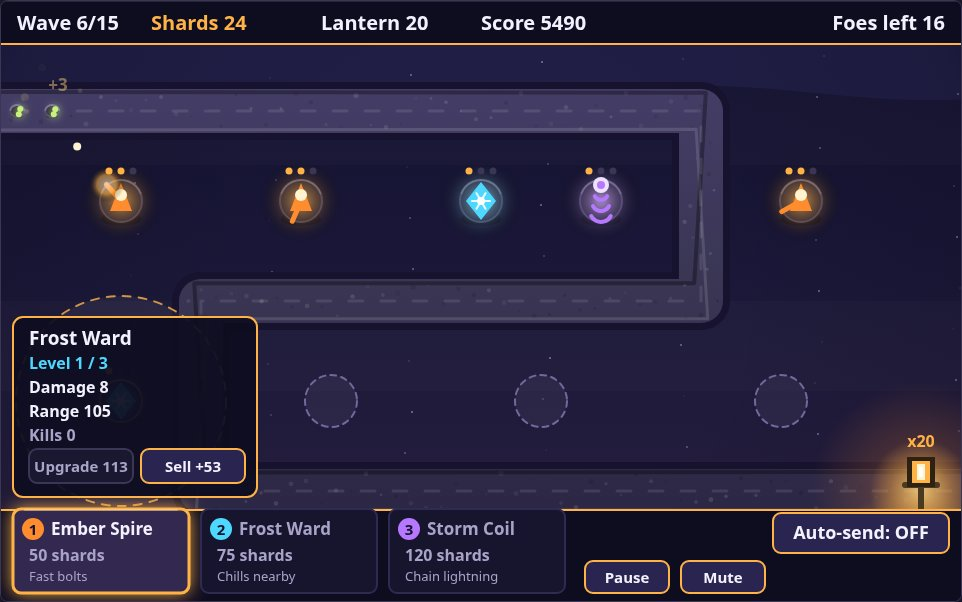
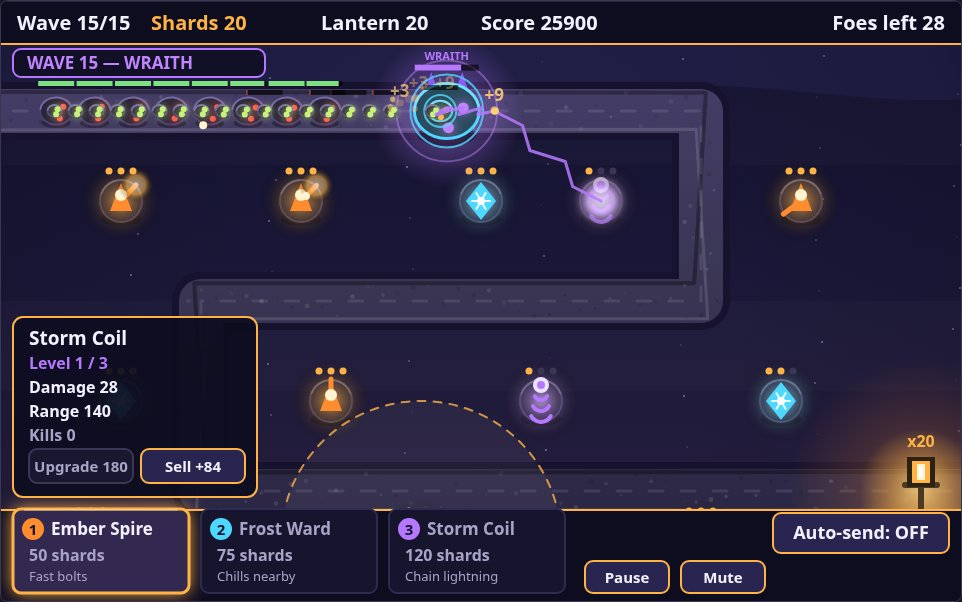
Staging: wave-15 boss fight play shot + grander wraith render
stagePlay now lands mid-boss-fight on wave 15 (step 24658, seed 1):
28 enemies alive, wraith at (446,110) with 72% HP, 5 projectiles,
21 particles, 4 floaters, 12 towers. Wave 5 peaks at 3 alive and
wave 10 at 17, so wave 15 is the busiest boss frame in the game.
Fallbacks: busy wave-10+ frame, then any mid-wave frame.

render.js (visual only, no stat/behavior change): wraith drawn 1.35x
with horns, wider/stronger aura + ring, bigger glowing eyes, wider
labelled HP bar; boss banner pill (WAVE n — WRAITH) while a wraith
is alive mid-wave. Screenshots re-rendered.

diff --git a/game/src/render.js b/game/src/render.js
@@ -615,29 +615,53 @@ export function createRenderer(canvas) {
 
   function drawEnemy(e, state) {
     const r = e.radius || 14;
+    // The wraith is drawn bigger than its collision radius: a purely
+    // visual scale, so its size on screen never changes its hitbox,
+    // speed or HP. Everything below that uses `vr` is presentation.
+    const isBoss = e.kind === 'wraith';
+    const vr = isBoss ? r * 1.35 : r;
     const chilled = e.slowUntil && state.time !== undefined && e.slowUntil > state.time;
     const eye = EYE_COLOR[e.kind] || '#ffffff';
-    // Boss aura.
-    if (e.kind === 'wraith') {
-      const aura = ctx.createRadialGradient(e.x, e.y, 4, e.x, e.y, r + 26);
-      aura.addColorStop(0, 'rgba(182, 120, 255, 0.4)');
+    // Boss aura: wider and stronger than a normal enemy's, plus a thin
+    // violet ring so the wraith reads as the centre of the fight even
+    // at thumbnail size.
+    if (isBoss) {
+      const aura = ctx.createRadialGradient(e.x, e.y, 4, e.x, e.y, vr + 44);
+      aura.addColorStop(0, 'rgba(182, 120, 255, 0.5)');
       aura.addColorStop(1, 'rgba(182, 120, 255, 0)');
       ctx.fillStyle = aura;
-      ctx.fillRect(e.x - r - 26, e.y - r - 26, (r + 26) * 2, (r + 26) * 2);
+      ctx.fillRect(e.x - vr - 44, e.y - vr - 44, (vr + 44) * 2, (vr + 44) * 2);
+      ctx.beginPath();
+      ctx.arc(e.x, e.y, vr + 18, 0, Math.PI * 2);
+      ctx.lineWidth = 2;
+      ctx.strokeStyle = 'rgba(192, 132, 252, 0.45)';
+      ctx.stroke();
     }
     // Ground shadow so the shadow creature still casts one.
-    dropShadow(e.x, e.y + r * 0.75, r * 0.9, r * 0.32);
+    dropShadow(e.x, e.y + vr * 0.75, vr * 0.9, vr * 0.32);
+    // Boss horns, drawn before the body so their bases tuck behind it.
+    if (isBoss) {
+      ctx.fillStyle = '#8b5cf6';
+      for (let s = -1; s <= 1; s += 2) {
+        ctx.beginPath();
+        ctx.moveTo(e.x + s * vr * 0.72, e.y - vr * 0.45);
+        ctx.lineTo(e.x + s * vr * 0.48, e.y - vr * 1.2);
+        ctx.lineTo(e.x + s * vr * 0.22, e.y - vr * 0.5);
+        ctx.closePath();
+        ctx.fill();
+      }
+    }
     ctx.beginPath();
-    ctx.ellipse(e.x, e.y, r, r * 0.85, 0, 0, Math.PI * 2);
-    ctx.fillStyle = chilled ? '#2a4a5e' : '#2a2438';
+    ctx.ellipse(e.x, e.y, vr, vr * 0.85, 0, 0, Math.PI * 2);
+    ctx.fillStyle = chilled ? '#2a4a5e' : (isBoss ? '#241a3d' : '#2a2438');
     ctx.fill();
-    ctx.lineWidth = 2;
-    ctx.strokeStyle = chilled ? FROST : '#4a3f6e';
+    ctx.lineWidth = isBoss ? 3 : 2;
+    ctx.strokeStyle = chilled ? FROST : (isBoss ? '#8b5cf6' : '#4a3f6e');
     ctx.stroke();
     // Bright rim along the top edge: the body catches the sky light, so
     // the silhouette separates from the dark path underneath.
     ctx.beginPath();
-    ctx.ellipse(e.x, e.y, r, r * 0.85, 0, Math.PI * 1.05, Math.PI * 1.95);
+    ctx.ellipse(e.x, e.y, vr, vr * 0.85, 0, Math.PI * 1.05, Math.PI * 1.95);
     ctx.lineWidth = 2;
     ctx.strokeStyle = chilled ? 'rgba(159, 232, 255, 0.55)' : 'rgba(190, 175, 255, 0.38)';
     ctx.stroke();
@@ -656,35 +680,38 @@ export function createRenderer(canvas) {
     const px = -fy;
     const py = fx;
     // Glowing eyes: a small shadowBlur so they bloom against the dark body.
+    // The boss's eyes are bigger and sit further out on its larger body.
     ctx.save();
     ctx.shadowColor = eye;
-    ctx.shadowBlur = 8;
+    ctx.shadowBlur = isBoss ? 12 : 8;
     for (let s = -1; s <= 1; s += 2) {
-      const ex = e.x + fx * r * 0.35 + px * s * r * 0.38;
-      const ey = e.y + fy * r * 0.35 + py * s * r * 0.38;
+      const ex = e.x + fx * vr * 0.35 + px * s * vr * 0.38;
+      const ey = e.y + fy * vr * 0.35 + py * s * vr * 0.38;
       ctx.beginPath();
-      ctx.arc(ex, ey, e.kind === 'wraith' ? 4.5 : 3, 0, Math.PI * 2);
+      ctx.arc(ex, ey, isBoss ? 5.5 : 3, 0, Math.PI * 2);
       ctx.fillStyle = eye;
       ctx.fill();
     }
     ctx.restore();
     if (chilled) {
       ctx.beginPath();
-      ctx.arc(e.x, e.y, r + 4, 0, Math.PI * 2);
+      ctx.arc(e.x, e.y, vr + 4, 0, Math.PI * 2);
       ctx.lineWidth = 2;
       ctx.strokeStyle = 'rgba(79, 216, 255, 0.8)';
       ctx.stroke();
     }
-    // HP bar for the tough ones, and for anything already hurt.
+    // HP bar for the tough ones, and for anything already hurt. The boss
+    // bar is wider and labelled, so it reads at thumbnail size.
     if (e.kind === 'brute' || e.kind === 'wraith' || (e.maxHp && e.hp < e.maxHp)) {
-      const bw = e.kind === 'wraith' ? 52 : 36;
+      const bw = isBoss ? 64 : 36;
       const bx = e.x - bw / 2;
-      const by = e.y - r - 12;
+      const by = e.y - vr - 14;
+      if (isBoss) text('WRAITH', e.x, by - 5, 11, STORM, 'center');
       ctx.fillStyle = 'rgba(0, 0, 0, 0.6)';
-      ctx.fillRect(bx, by, bw, 5);
+      ctx.fillRect(bx, by, bw, isBoss ? 6 : 5);
       const frac = Math.max(0, Math.min(1, e.hp / (e.maxHp || 1)));
-      ctx.fillStyle = e.kind === 'wraith' ? STORM : (frac > 0.5 ? '#7ee081' : '#ff5a4e');
-      ctx.fillRect(bx, by, bw * frac, 5);
+      ctx.fillStyle = isBoss ? STORM : (frac > 0.5 ? '#7ee081' : '#ff5a4e');
+      ctx.fillRect(bx, by, bw * frac, isBoss ? 6 : 5);
     }
   }
 
@@ -890,6 +917,33 @@ export function createRenderer(canvas) {
     }
   }
 
+  // Boss banner: while a wraith is alive mid-wave, a small pill at the
+  // top-left of the field names the fight ("WAVE 15 — WRAITH"). Purely
+  // derived from state (wave number + a wraith in the enemy list), so it
+  // is deterministic; it sits above the path (y 48–76) where no enemy
+  // body ever reaches, and only during fighting, never in the build
+  // phase. In a thumbnail it is the one line that says "boss fight".
+  function drawBossBanner(state) {
+    if (state.waveState !== 'fighting' && state.waveState !== 'spawning') return;
+    const enemies = state.enemies || [];
+    let bossAlive = false;
+    for (let i = 0; i < enemies.length; i += 1) {
+      if (enemies[i].kind === 'wraith') { bossAlive = true; break; }
+    }
+    if (!bossAlive) return;
+    const px = 12;
+    const py = 48;
+    const pw = 252;
+    const ph = 28;
+    roundRectPath(px, py, pw, ph, 8);
+    ctx.fillStyle = 'rgba(14, 13, 32, 0.78)';
+    ctx.fill();
+    ctx.lineWidth = 2;
+    ctx.strokeStyle = STORM;
+    ctx.stroke();
+    text('WAVE ' + (state.wave || 0) + ' — WRAITH', px + 14, py + 20, 17, '#c084fc', 'left');
+  }
+
   function drawPlayField(state, ui) {
     drawField(state);
     drawPath();
@@ -956,6 +1010,7 @@ export function createRenderer(canvas) {
     drawHud(s);
     drawBottomBar(s, u);
     if (screen === SCREEN_PLAY) {
+      drawBossBanner(s);
       drawSelectionPanel(s, u, screen);
       // Bottom-bar control buttons (send wave, auto-send, pause, mute).
       // Only on the play screen: the paused overlay has its own buttons and

diff --git a/game/src/shots.js b/game/src/shots.js
@@ -24,7 +24,11 @@ const PLOT_TYPES = [
 /** Hard cap on steps for the full-game victory attempt. */
 const VICTORY_STEP_CAP = 150000;
 /** Steps after which stagePlay accepts a merely-acceptable frame. */
-const PLAY_FALLBACK_STEPS = 60 * 150;
+const PLAY_FALLBACK_STEPS = 60 * 500;
+/** Cap for the boss-fight play scene: the wave-15 frame lands ~step 24658. */
+const PLAY_STEP_CAP = 60 * 450;
+/** Steps after which stagePlay accepts any mid-wave frame at all. */
+const PLAY_LAST_RESORT_STEPS = 60 * 540;
 /** Steps of play the title scene stages first (~6 seconds of wave 1). */
 const START_STEPS = 360;
 /** Generous cap for the mid-game scenes, in steps. */
@@ -131,46 +135,64 @@ function stageStart(world, ui) {
 
 function stagePlay(world, ui) {
   beginRun(world);
-  // A lively frame: a real mid-game army (wave 3+), at least four towers
-  // standing, a crowd on the path, and something in the air — a bolt, a
-  // chain link or a kill burst — so the shot reads as a battle, not a
-  // posed field. Measured with seed 1: the fourth tower only lands after
-  // wave 4 clears (the autopilot spends a mid-wave-3 upgrade first) and
-  // the wave-5 boss wave never holds 4 alive, so this lands mid-wave 6.
-  const lively = (state) => {
-    const towers = state.towers || [];
-    const enemies = state.enemies || [];
-    const midWave = state.waveState === 'fighting' || state.waveState === 'spawning';
-    if (!midWave || (state.wave || 0) < 3) return false;
-    if (towers.length < 4 || enemies.length < 4) return false;
-    const projectiles = state.projectiles || [];
-    const particles = state.particles || [];
-    return projectiles.length > 0 || particles.length > 0;
+  // A boss-fight frame, not a quiet mid-wave one: the wave-15 wraith
+  // with its escort swarm. Measured with seed 1 (Node probe, same
+  // steering as here): wave 5 never holds more than 3 enemies alive, wave
+  // 10 peaks at ~17 enemies, but wave 15 — wraith + 8 brutes + 10 shades
+  // + 20 swarmlings, all slowed into a jam by the frost wards — peaks at
+  // 27-32 alive at once. The predicate below first lands at step 24658
+  // (wave time 18.7 s): 28 enemies on the top leg, boss at (446, 110)
+  // with 72% HP, 5 projectiles in the air, 21 particles, 4 floaters,
+  // 12 towers standing, score 25,900 — the busiest boss-alive frame of
+  // the whole game, and still a real frame a real game reaches.
+  const bossFrame = (state) => {
+    if (state.wave !== 15) return false;
+    if (state.waveState !== 'fighting' && state.waveState !== 'spawning') return false;
+    const boss = (state.enemies || []).find((e) => e.kind === 'wraith');
+    if (!boss) return false;
+    if ((state.waveTime || 0) < 16) return false;
+    if ((state.enemies || []).length < 24) return false;
+    if ((state.projectiles || []).length < 3) return false;
+    return (state.particles || []).length >= 15;
   };
-  // After two and a half minutes of game time, take any mid-wave-3+ frame
-  // with enemies on the path rather than running on to the step cap. The
-  // threshold sits past the long wave-5 boss wave (about 57 s, at most 3
-  // enemies alive at once, so the lively bar can never clear there) — with
-  // seed 1 the first lively frame lands at step 7201, one step after the
-  // old 120 s threshold would have cut in, so the fallback must not sit
-  // right on top of wave 6 either.
+  const midWave = (state) => state.waveState === 'fighting' || state.waveState === 'spawning';
   const playStop = (state, steps) => {
-    if (lively(state)) return true;
-    if (steps < PLAY_FALLBACK_STEPS) return false;
-    const midWave = state.waveState === 'fighting' || state.waveState === 'spawning';
-    return (state.wave || 0) >= 3 && midWave && (state.enemies || []).length > 0;
+    if (bossFrame(state)) return true;
+    // Fallbacks, in order of preference, if the boss frame never lands
+    // (another seed, a future balance change): a busy wave-10+ frame,
+    // then any mid-wave frame with enemies on the path.
+    if (steps >= PLAY_FALLBACK_STEPS && state.wave >= 10 && midWave(state)
+      && (state.enemies || []).length >= 10) return true;
+    if (steps >= PLAY_LAST_RESORT_STEPS && state.wave >= 3 && midWave(state)
+      && (state.enemies || []).length > 0) return true;
+    return false;
   };
-  let outcome = steer(world, () => basicDecide(world), playStop, SCENE_STEP_CAP);
-  if (outcome.lost) {
-    // A lost run would stage a defeat behind a play screen; restart fresh
-    // and take the first lively mid-wave frame instead of an empty field.
+  let outcome = steer(world, () => basicDecide(world), playStop, PLAY_STEP_CAP);
+  if (outcome.lost || outcome.won) {
+    // The run ended before the boss frame (lost) or ran straight through
+    // it to victory; restart fresh and take the first busy wave-10+
+    // frame instead of an empty post-game field.
     beginRun(world);
     outcome = steer(
       world,
       () => basicDecide(world),
       (state) => {
-        const midWave = state.waveState === 'fighting' || state.waveState === 'spawning';
-        return state.wave >= 2 && midWave && (state.enemies || []).length > 0;
+        if (!midWave(state) || state.wave < 10) return false;
+        if ((state.enemies || []).length < 8) return false;
+        return (state.projectiles || []).length > 0 || (state.particles || []).length > 0;
+      },
+      VICTORY_STEP_CAP,
+    );
+  }
+  if (outcome.lost || outcome.won) {
+    // Still nothing: take the first lively mid-wave frame, as before.
+    beginRun(world);
+    outcome = steer(
+      world,
+      () => basicDecide(world),
+      (state) => {
+        if (!midWave(state) || state.wave < 2) return false;
+        return (state.enemies || []).length > 0;
       },
       SCENE_STEP_CAP,
     );
